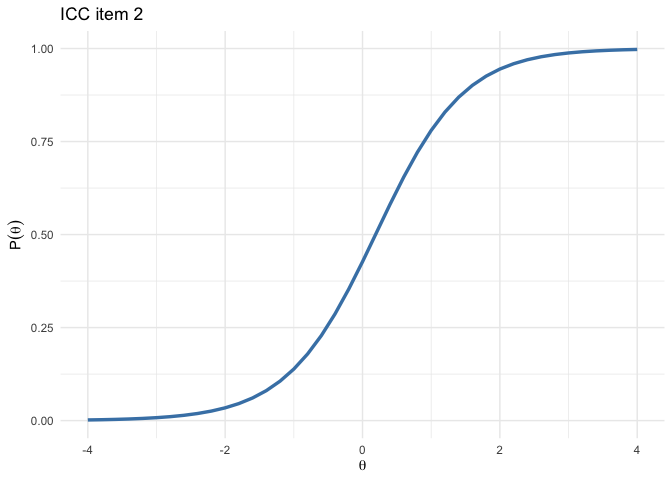
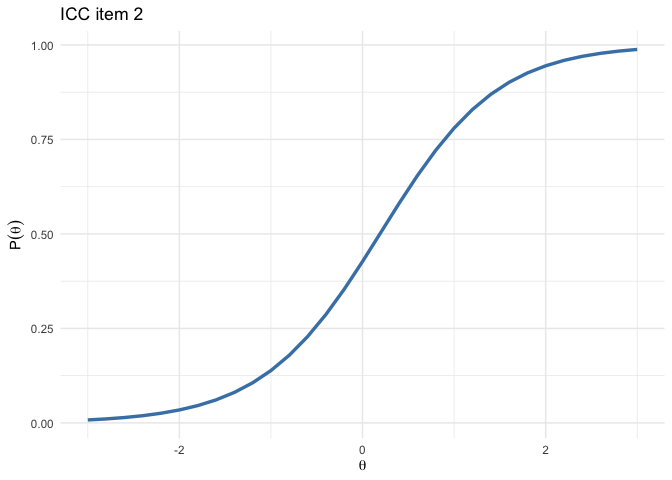
Add files via upload

diff --git a/README.md b/README.md
@@ -278,13 +278,13 @@ loo(fit)
 Lets plot the item icc and item info
 
 ``` r
-item_icc(fit, item = 2, theta_lim = c(-4,4))
+item_icc(fit, item = 2, theta_lim = c(-3,3))
 ```
 
 ![](README_files/figure-gfm/item_icc-1.png)<!-- -->
 
 ``` r
-item_info(fit, item = 2, theta_lim = c(-4,4))
+item_info(fit, item = 2, theta_lim = c(-3,3))
 ```
 
 ![](README_files/figure-gfm/item_info-1.png)<!-- -->
